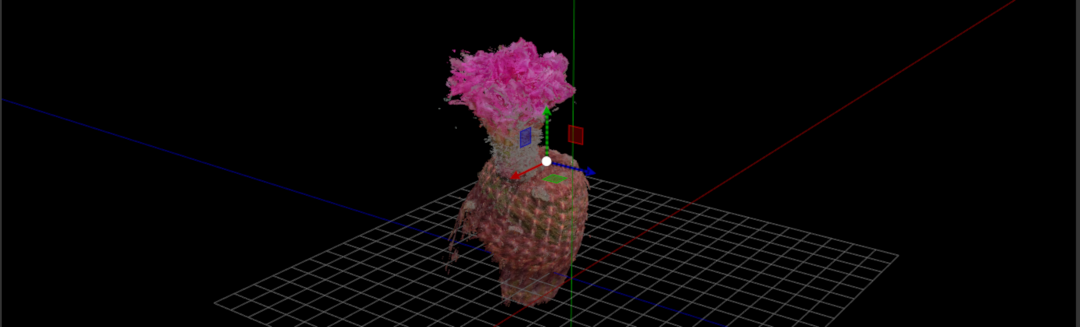
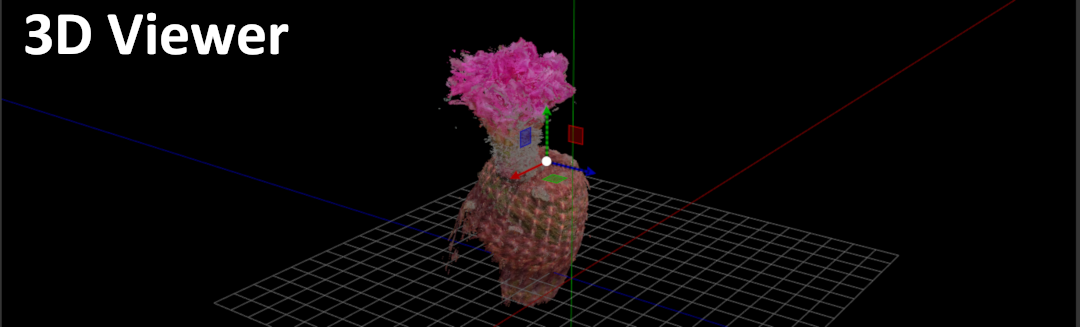
Update README contact info and viewer image
Revised technology stack and contact email formatting in README for clarity and accuracy. Updated Main_Viewer.png image in ScanLAB/Renderella to reflect latest changes.

Changed region(s): [[0.0306, 0.0306, 0.275, 0.1835]]

diff --git a/README.md b/README.md
@@ -5,14 +5,14 @@ I'm Jacques, a software developper based in Marseille (France), mainly working f
 
 Over the years, I’ve specialized in building cross-platform desktop applications, primarily in the field of computer graphics, using C++ and Python.
 
-I also have hands-on experience with a wide range of other technologies - from web development (JavaScript, TypeScript, WebGL, Three.js...) to mobile applications (Unity, Flutter) and game engines (Unity, Godot, Unreal).
+I also have hands-on experience with a wide range of other technologies - from web development (JavaScript, Angular, node.js, WebGL, Three.js...) to mobile applications (Swift, Kotlin, Unity) and game engines (Unity, Godot, Unreal).
 
 Naturally curious, I’m always eager to learn new technologies and explore new technical challenges.
 
 Here, you'll find a showcase of what I've been up to at my job at ScanLAB, and also some side projects I've been working on in my spare time.
 
 I'm currently available for freelance collaborations.
-If you’re looking for help on a project (development, creative tech, or something in between) I’d love to hear from you at [jacquespillet5@gmail.com](jacquespillet5@gmail.com)
+If you’re looking for help on a project (development, creative tech, or something in between) I’d love to hear from you at [jacquespillet5@gmail.com](mailto:jacquespillet5@gmail.com)
 
 Thanks for stopping by!
 
@@ -20,7 +20,7 @@ Thanks for stopping by!
 [CV](https://github.com/jacquespillet/jacquespillet.github.io/raw/main/Resume.pdf) |
 [Blog](https://jacquespillet.blogspot.com/) |
 [github](https://github.com/jacquespillet/) | 
-[mail](jacquespillet5@gmail.com)
+[mail](mailto:jacquespillet5@gmail.com)
 
 
 <details>
